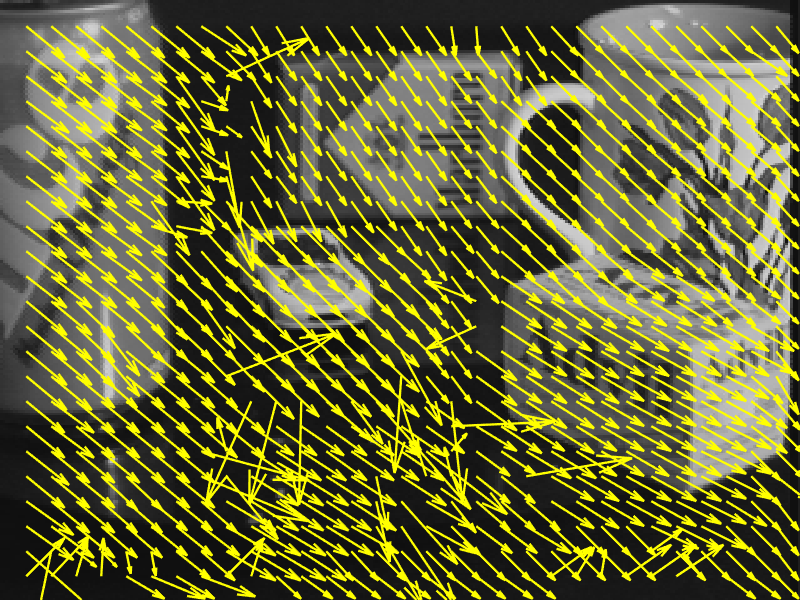
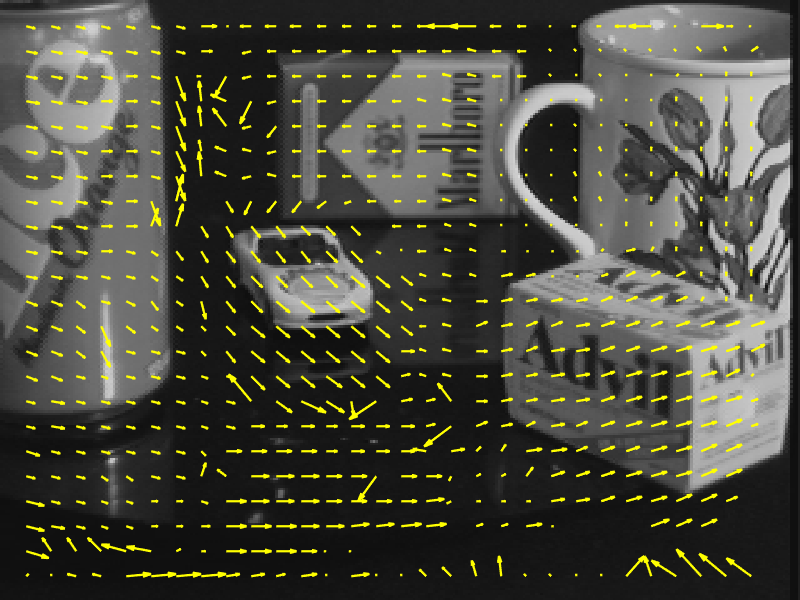
Almost finished challenge 1.

Changed region(s): [[0.0312, 0.03, 1.0, 1.0], [0.0938, 0.99, 0.125, 1.0]]

diff --git a/Assignments/HW7/src/computeFlow.m b/Assignments/HW7/src/computeFlow.m
@@ -1,9 +1,9 @@
 function result = computeFlow(img1, img2, win_radius, template_radius, grid_MN)
     [ht, wid] = size(img1);
-    result = zeros(ht, wid, 2);
+    opticalFlow = zeros(grid_MN(1), grid_MN(2), 2);
     
     c = 1;
-    for x = round(wid / (grid_MN(2) + 1)) + 1 : round(wid / (grid_MN(2) + 1)) : wid
+    for x = round(wid / (grid_MN(2) + 1)) + 1 : round(wid / (grid_MN(2) + 1)) : wid - round(wid / (grid_MN(2) + 1))
         r = 1;
         for y = round(ht / (grid_MN(1) + 1)) + 1 : round(ht / (grid_MN(1) + 1)) : ht
             src_x_strt = max(1, x - template_radius);
@@ -17,28 +17,30 @@ function result = computeFlow(img1, img2, win_radius, template_radius, grid_MN)
             dest_y_end = min(ht, y + win_radius);
             
             src_template = img1(src_y_strt:src_y_end, src_x_strt:src_x_end);
-            % figure('Name', 'Source template'), imshow(src_template);
             dest_window = img2(dest_y_strt:dest_y_end, dest_x_strt:dest_x_end);
             cross_corr = normxcorr2(src_template, dest_window);
+            % Remove the extra padding added by normxcorr2 function
+            cross_corr = cross_corr(size(src_template, 1) : size(cross_corr, 1) - size(src_template, 1), size(src_template, 2) : size(cross_corr, 2) - size(src_template, 2));
             [y_match, x_match] = find(cross_corr == max(cross_corr(:)));
             
             % Transform the coordinates to original frame of reference
-            x_match = x_match(1) + dest_x_strt;
-            y_match = y_match(1) + dest_y_strt;
-            result(y, x, :) = [x_match - x, y_match - y];
+            % while finding the optical flow vector direction
+            opticalFlow(y, x, :) = [x_match - (src_x_strt - dest_x_strt + 1), y_match - (src_y_strt - dest_y_strt + 1)];
             r = r + 1;
         end
         c = c + 1;
     end
     
+    % Draw the needle plot on img1.
+    % TODO: This takes very long. Optimize it?
     fig = figure;
     imshow(img1);
     hold on;
     for y = round(ht / (grid_MN(1) + 1)) + 1 : round(ht / (grid_MN(1) + 1)) : ht
-        for x = round(wid / (grid_MN(2) + 1)) + 1 : round(wid / (grid_MN(2) + 1)) : wid
-            quiver(x, y, result(y, x, 1), result(y, x, 2), 'filed', 'y', 'MaxHeadSize', 1, 'LineWidth', 0.7);
+        for x = round(wid / (grid_MN(2) + 1)) + 1 : round(wid / (grid_MN(2) + 1)) : wid - round(wid / (grid_MN(2) + 1))
+            quiver(x, y, opticalFlow(y, x, 1), opticalFlow(y, x, 2), 'Color', 'b');
         end
     end
     result = saveAnnotatedImg(fig);
-    close(fig);
+    % close(fig);
 end
